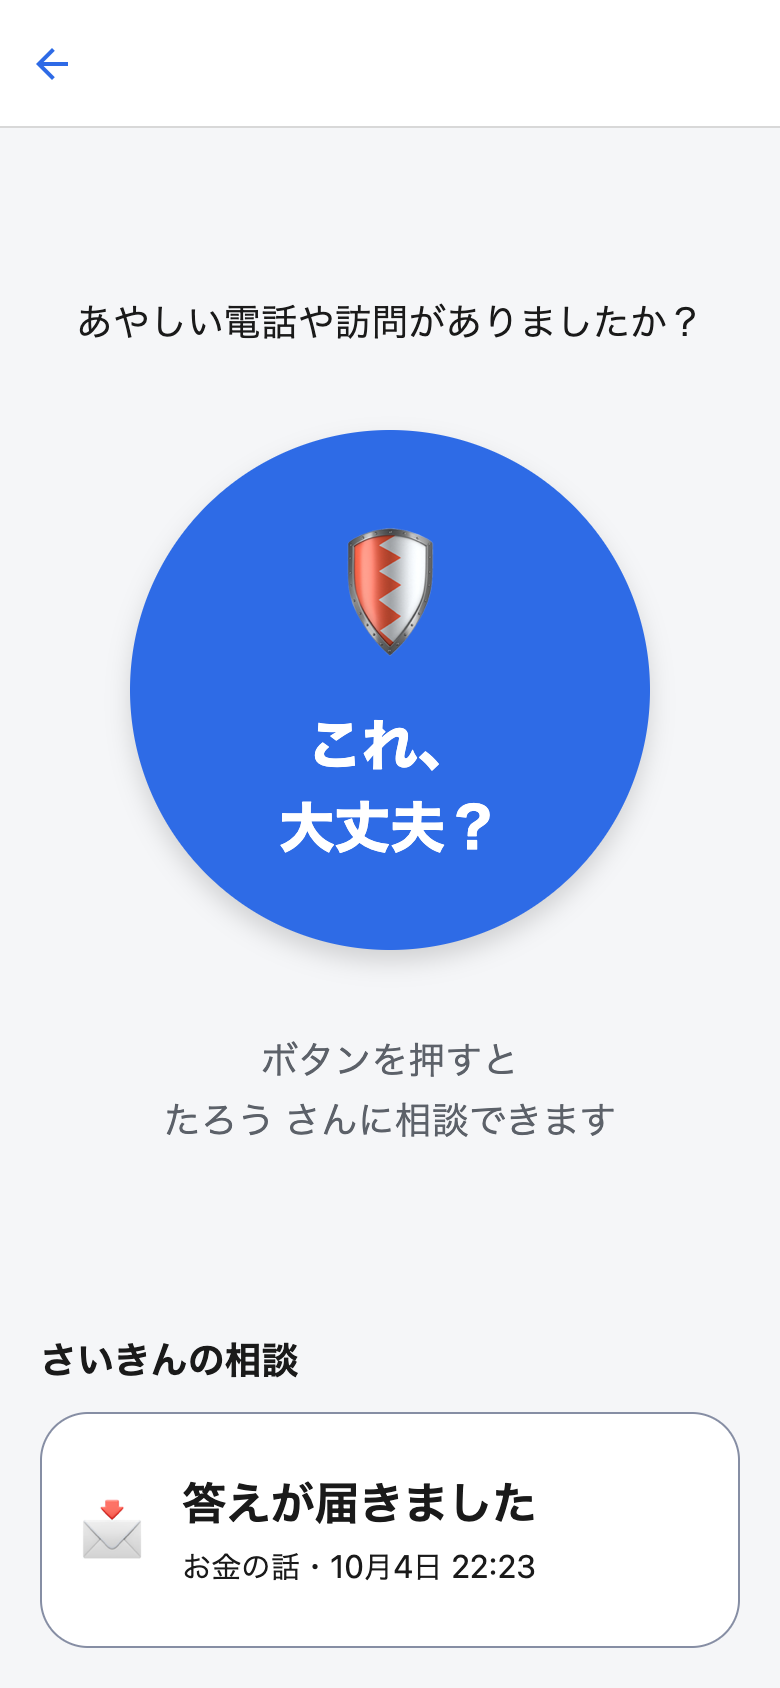
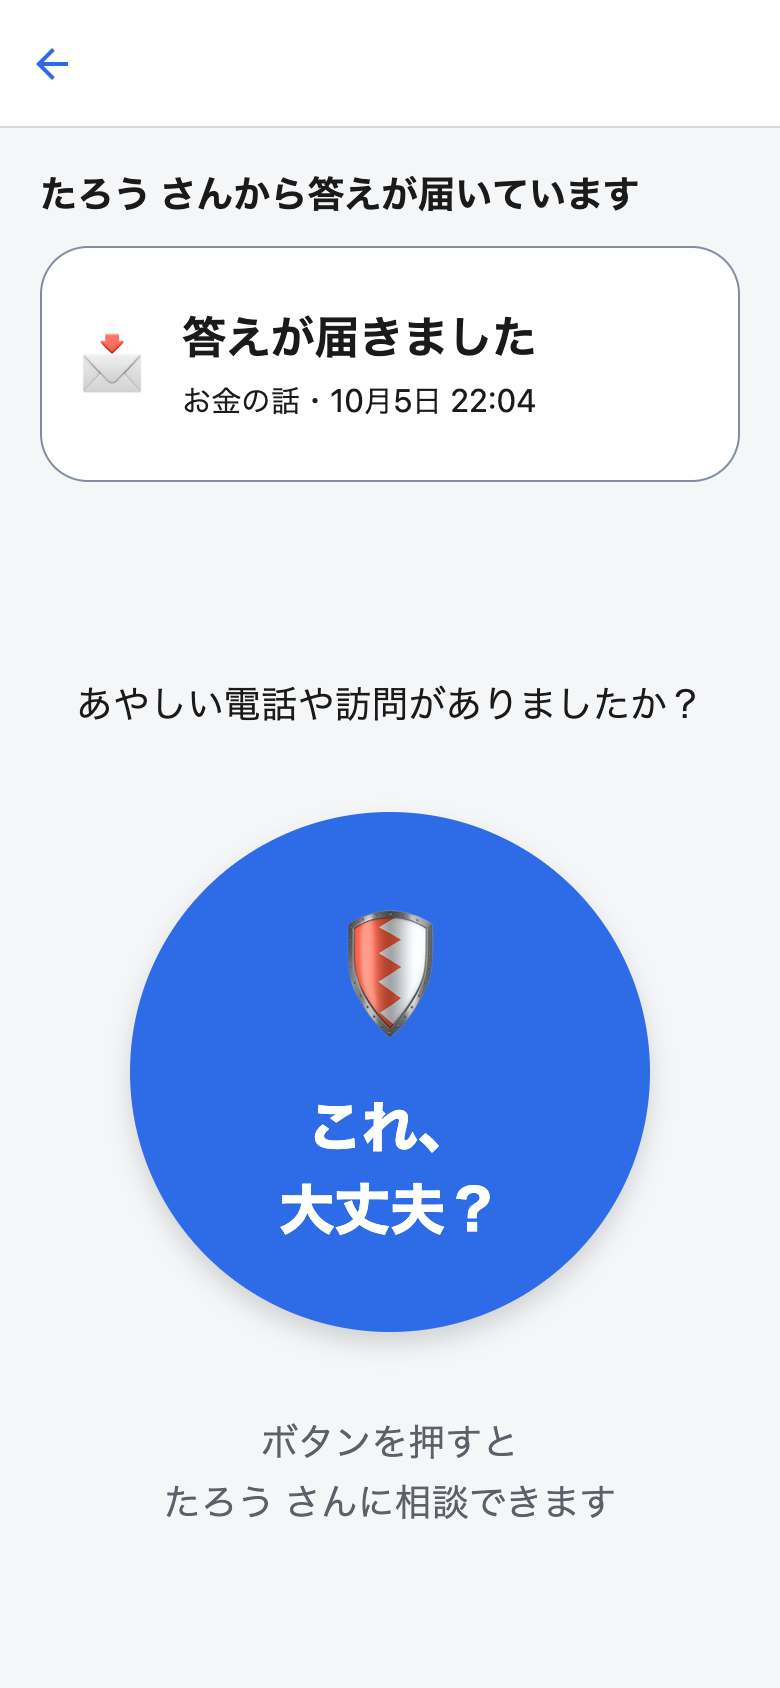
文書・ライセンス・アプリ名を合わせ、スクリーンショットを撮り直す
- DESIGN に親ホームの入口（最大 3 件と並び順、1画面1操作との関係）、相談中の「ホームにもどる」、自由入力での判定の選択と 200 字の上限を反映する
- README と DESIGN の Node の要件を react-native 0.86 の engines のとおりに書く
- README に、Web 版ではブラウザの戻るや再読み込みで相談が消えることを書く
- LICENSE に Expo テンプレート由来の元の著作権表示を戻し、その下に kerokero-1245 を併記する
- app.json の name を「これ大丈夫？」に戻す（ホーム画面で省略されないように。画面内と README の表記は「これ、大丈夫？」のまま）
- README のスクリーンショット 2 枚を撮り直す

diff --git a/README.md b/README.md
@@ -2,7 +2,7 @@
 
 高齢の親が、あやしい電話・訪問・SMS に出くわしたとき、大きなボタン1つで子にすぐ相談できる詐欺対策アプリ。
 
-<img src="docs/screenshots/top.png" width="280" alt="親のホーム画面。青い丸ボタン「これ、大丈夫？」と、その下に「さいきんの相談：答えが届きました」の入口">
+<img src="docs/screenshots/top.png" width="280" alt="親のホーム画面。上に「答えが届きました」の入口、その下に青い丸ボタン「これ、大丈夫？」">
 <img src="docs/screenshots/answer.png" width="280" alt="親の答えの画面。赤い見出し「詐欺かもしれません」と、子からの返信「それ詐欺かも！絶対に対応しないで」">
 
 - 設計: [docs/DESIGN.md](docs/DESIGN.md)
@@ -10,14 +10,14 @@
 
 ## いまの状態（MVP骨組み）
 
-- 親フロー: ホーム →「これ、大丈夫？」→ 種類選択 → 相談中 → 答え（ホームの「さいきんの相談」からも開ける）
-- 子フロー: 受信一覧 → 詳細 → 定型文、または自由入力＋判定（詐欺かも / 大丈夫そう / まだ分からない）で返信
+- 親フロー: ホーム →「これ、大丈夫？」→ 種類選択 → 相談中 → 答え（ホームに最近の相談の入口が最大3件。まだ開いていない答えは大ボタンより上に出る）
+- 子フロー: 受信一覧 → 詳細 → 定型文、または自由入力（200字まで）＋判定（詐欺かも / 大丈夫そう / まだ分からない）で返信
 - データはまだ端末内のメモリ（`src/data/store.tsx`）。次の段階で Supabase に差し替える。
 - 開発用に、最初の画面で「親モード / 子モード」を切り替えられる。
 
 ## 動かし方
 
-Node は v20 以上（`.nvmrc` は 20.20.0）。
+Node は react-native 0.86 の `engines` に合わせ、20.19.4 以上の 20 系、22.13.0 以上の 22 系、24.3.0 以上の 24 系、または 25 以上（`.nvmrc` は 20.20.0）。
 
 ```sh
 nvm use            # .nvmrc の Node に切り替え（未導入なら nvm install）
@@ -40,12 +40,14 @@ npm run web        # Expo 開発サーバーを起動してブラウザで開く
 
 スマホがなくても、ブラウザで一往復の流れを確かめられます。
 
+※ 相談はメモリにだけ置いているので、Web 版ではブラウザの「戻る」や再読み込みで相談が消えます。画面の行き来はアプリ内の「戻る」や「ホームにもどる」を使ってください。
+
 ## 一往復のテスト（1台で）
 
 1. 「親モードで開く」→「これ、大丈夫？」→ 種類を選ぶ →「〜さんに相談しています…」になる
 2. 「ホームにもどる」で親のホームへ戻り、左上の戻るで最初の画面へ。「子モードで開く」
 3. 届いた相談を開いて返信する（定型文をタップ、または自分の言葉を書いて判定を選び「この内容で送る」）
-4. 左上の戻るで最初の画面へ戻り、「親モードで開く」→ ホームの「さいきんの相談」（答えが届きました）を押すと、答えが表示される
+4. 左上の戻るで最初の画面へ戻り、「親モードで開く」→ ホームのいちばん上に出る「答えが届きました」を押すと、答えが表示される
 
 ※ 本番では2台（親・子）でリアルタイムに繋がります（Supabase 導入後）。
 
